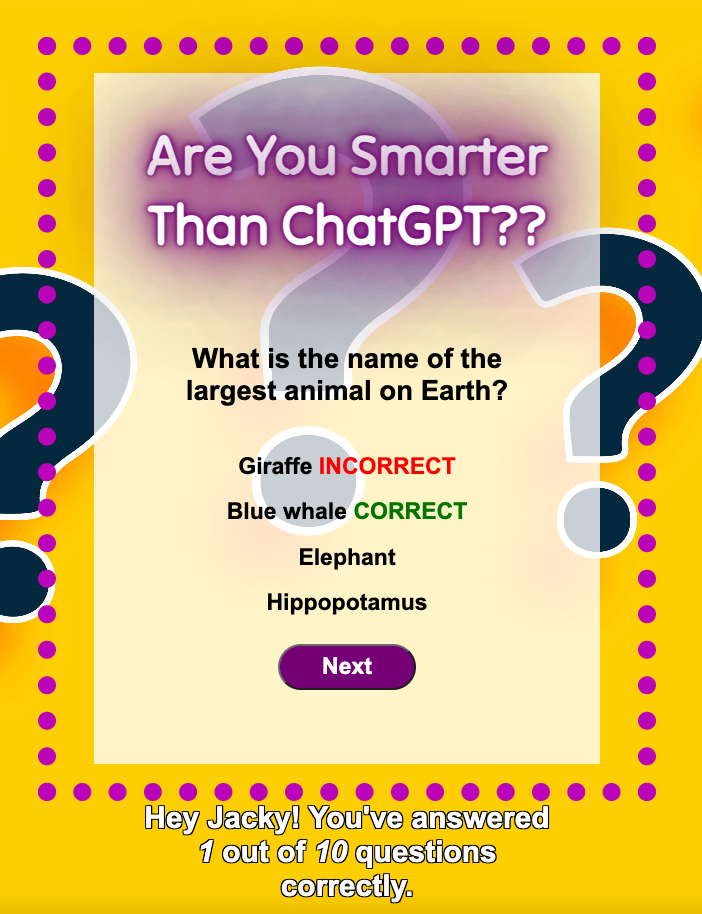
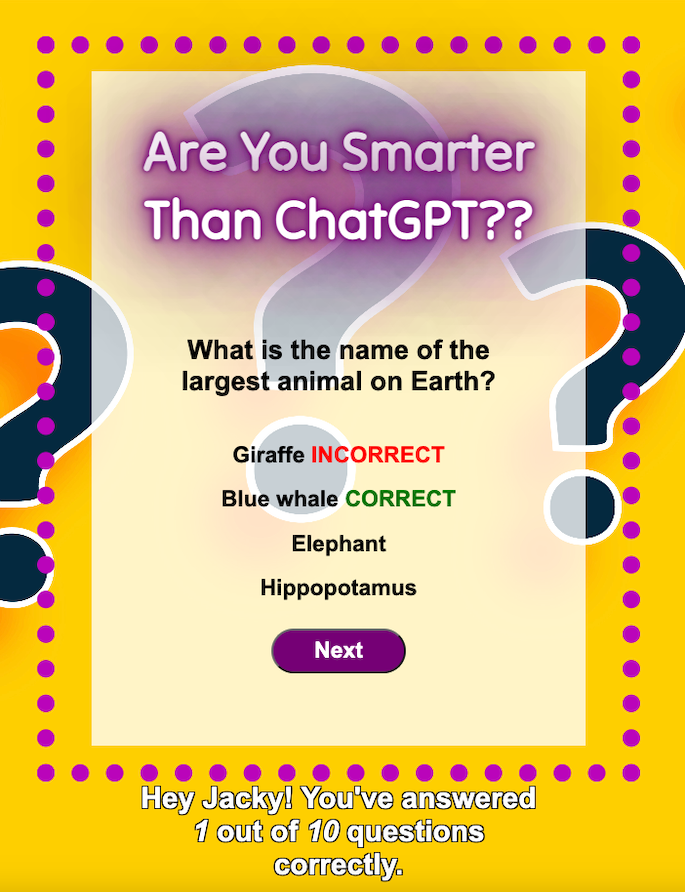
update trivia project imgs

diff --git a/index.html b/index.html
@@ -5,7 +5,7 @@
     <meta http-equiv="X-UA-Compatible" content="IE=edge">
     <meta name="viewport" content="width=device-width, initial-scale=1.0">
     <link rel="stylesheet" href="./style.css">
-    <script src="./script.js"></script>
+    <script defer src="./script.js"></script>
     <title>Jaclyn Carey - Software Engineer</title>
 </head>
 <body>
@@ -20,8 +20,10 @@
             <a href="https://www.instagram.com/jackycancode/" target="_blank"><img src="./imgs/instagram.png" alt="instagram"></a>
             <a href="https://twitter.com/jackycarey" target="_blank"><img src="./imgs/twitter.png" alt="twitter"></a>
         </div>
+
     </header>
     <main>
+
         <h2 class="about-me">About Me</h2>
         <p>I'm a software engineer with expertise in HTML5, CSS3, and JavaScript, as well as knowledge of PostgreSQL, Java, C++, and Python. I'm pursuing my <a href="https://www.wgu.edu/online-it-degrees/software-engineering-bachelors-program.html" target="_blank">Bachelor of Science in Software Engineering from Western Governors University</a> while also completing the <a href="https://generalassemb.ly/education/software-engineering-immersive" target="_blank">Software Engineering Immersive program at General Assembly</a>, in addition to having concluded a 32-hour <a href="https://academy.vetsintech.co/course/vetsintech-front-end-web-dev-cohort-sponsored-by-boeing" target="_blank">Front End Web Development program at VetsInTech Academy</a>. I hold several industry professional certifications, including CompTIA A+, (ISC)² Certified in Cybersecurity (CC), Scrum.org Professional Scrum Master I (PSM I), and ITIL 4 Foundation, with more certifications in progress.</p>
         <p>I have a strong foundation in software engineering and deliver high-quality projects using tools such as Git, VSCode, Chrome DevTools, and others. I am passionate about leveraging technology to solve complex problems and dedicated to staying up-to-date with the latest trends and tools in the field. I'm committed to collaborating with teams and clients to deliver innovative solutions that exceed expectations.</p>
@@ -31,29 +33,45 @@
             <a href="./files/Jaclyn Carey-SWE-Resume.pdf" target="_blank"><button class="resume">Resume</button></a>
             <a href="#portfolio-section"><button class="portfolio">Portfolio</button></a>
         </div>
+
     </main>
+
     <section class="portfolio-section" id="portfolio-section">
-        <div class="witc-main-div">
-            <a href="https://trivia-game.jaclyncarey.com" target="_blank"><img id="witc-img" src="./imgs/trivia.png" alt="women-in-tech-cafe"></a>
-            <div class="witc">
+
+        <div class="proj-main-div">
+            <div class="window">
+                <div class="image-slider">
+                    <img class="game-img" src="./imgs/trivia.png" alt="Trivia Game">
+                    <img class="game-img" src="./imgs/trivia2.png" alt="Trivia Game">
+                    <img class="game-img" src="./imgs/trivia3.png" alt="Trivia Game">
+                    <img class="game-img" src="./imgs/trivia4.png" alt="Trivia Game">
+                    <img class="game-img" src="./imgs/trivia5.png" alt="Trivia Game">
+                    <img class="game-img" src="./imgs/trivia6.png" alt="Trivia Game">
+                    <img class="game-img" src="./imgs/trivia7.png" alt="Trivia Game">
+                </div>
+            </div>
+            <div class="proj">
                 <h3><a href="https://trivia-game.jaclyncarey.com" target="_blank">Trivia Game - Are You Smarter Than ChatGPT???</a></h3>
                 <p><span class="bold-span">HTML5 | CSS3 | JavaScript</span><br>This is a 1 player trivia game based on the gameshow "Are you smarter than a 5th grader?".  But instead, the questions and answers were generated by ChatGPT.  The topics of the questions range from math, science, history, geography, literature, and 90's movies. Questions are randomly selected from a pool of 106 questions with each new game.  The game's layout is responsive, which makes it possible to be played on desktop or mobile devices.</p>
             </div>
         </div>
-        <div class="witc-main-div">
-            <a href="https://vetsintech-final-project-group-4.jaclynscarey.repl.co/" target="_blank"><img id="witc-img" src="./imgs/witc.png" alt="women-in-tech-cafe"></a>
-            <div class="witc">
+
+        <div class="proj-main-div">
+            <a href="https://vetsintech-final-project-group-4.jaclynscarey.repl.co/" target="_blank"><img class="proj-img" src="./imgs/witc.png" alt="women-in-tech-cafe"></a>
+            <div class="proj">
                 <h3><a href="https://vetsintech-final-project-group-4.jaclynscarey.repl.co/" target="_blank">WITC - Review Page</a></h3>
                 <p><span class="bold-span">HTML5 | CSS3 | JavaScript</span><br>Allows users to leave their review for WITC. Each post creates a new card, which includes name, date stamp, message, and image upload.</p>
             </div>
         </div>
-        <div class="witc-main-div">
-            <a href="https://rock-paper-scissors-game.jaclynscarey.repl.co/" target="_blank"><img id="witc-img" src="./imgs/rps.png" alt="rock-paper-scissor"></a>
-            <div class="witc">
+
+        <div class="proj-main-div">
+            <a href="https://rock-paper-scissors-game.jaclynscarey.repl.co/" target="_blank"><img class="proj-img" src="./imgs/rps.png" alt="rock-paper-scissor"></a>
+            <div class="proj">
                 <h3><a href="https://rock-paper-scissors-game.jaclynscarey.repl.co/" target="_blank">Rock, Paper, Scissor Game</a></h3>
                 <p><span class="bold-span">HTML5 | CSS3 | JavaScript</span><br>Browser version of the popular Rock, Paper, Scissor game.</p>
             </div>
-        </div>        
+        </div>
+
     </section>
 </body>
 </html>

diff --git a/style.css b/style.css
@@ -102,7 +102,7 @@ a > img {
     overflow: scroll;
 }
 
-.witc-main-div {
+.proj-main-div {
     display: flex;
     flex-wrap: wrap;
     margin: 1vmin 1vmin 5vmin;
@@ -111,17 +111,18 @@ a > img {
     border-bottom: .5vmin solid #ffffff;
 
 }
-#witc-img {
+.proj-img {
     height: 45vmin;
     width: auto;
-    margin-right: 1vmin;
+    /* margin-right: 1vmin; */
 }
 
 div > h3 {
     font-size: 2.5vmin;
     margin-bottom: 2vmin;
 }
-div.witc {
+div.proj {
+    margin-left: 1vmin;
     padding: 3vmin;
     height: 45vmin;
     width: 35vmin;
@@ -139,4 +140,20 @@ a {
 
 a:hover {
     text-shadow: .125vmin .125vmin .125vmin #7d555d;
+}
+
+.image-slider {
+    display: flex;
+    transition: 3s;
+
+}
+
+.window {
+    height: 45vmin;
+    width: 37.5vmin;
+    overflow: hidden;
+}
+
+.game-img {
+    width: 37.5vmin;
 }

diff --git a/script.js b/script.js
@@ -1,0 +1,16 @@
+let imgSlider = document.querySelector('.image-slider')
+
+let position = 0;
+
+function nextImage() {
+    if(position < 6){
+        position += 1;
+        var offset = position * 37.5;
+        imgSlider.style.transform = "translateX(-" + offset + "vmin)";
+    } else {
+        clearInterval()
+        position = -1;
+    }          
+}
+
+setInterval(nextImage, 3000);
